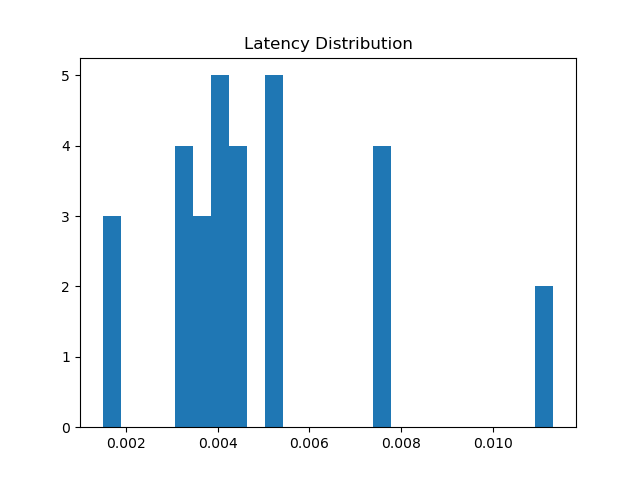
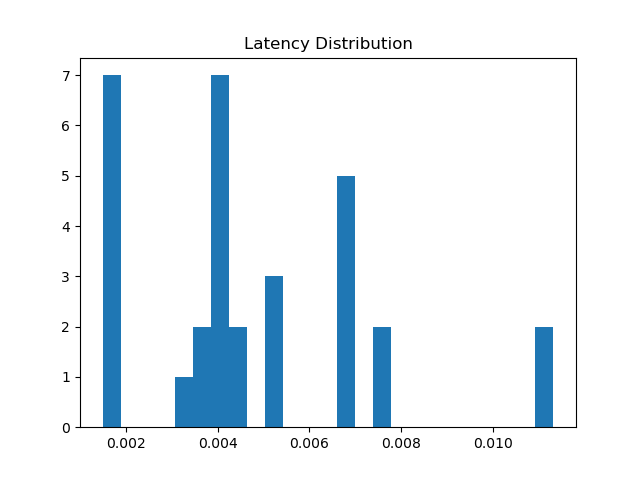
refactoring

diff --git a/project/main2.py b/project/main2.py
@@ -1,7 +1,8 @@
 import copy
-from network import Network, plt, np
 from random import shuffle
+
 from connection import Connection
+from network import Network, plt, np
 
 
 # used for the simulation of 100 connections with all the transceiver strategies
@@ -13,8 +14,7 @@ def main():
     connections = []
     for i in range(100):
         shuffle(node_labels)
-        connection = Connection(node_labels[0], node_labels[-1], 1e-3)
-        connections.append(connection)
+        connections.append(Connection(node_labels[0], node_labels[-1], 1e-3))
 
     connections1 = copy.deepcopy(connections)
     connections2 = copy.deepcopy(connections)
@@ -87,19 +87,12 @@ def main():
     plt.show()
 
     # _______________________________________________________________________________________
-    """""""""
-    plt.legend(loc='upper right')
-    plt.title('BitRate Distribution')
-    plt.xlabel('BitRate [Gbps]')
-    plt.show()
-    """""""""
-    streamed_connections = network.stream(connections)
     latencies = [connection.latency for connection in streamed_connections_shannon]
     plt.hist(np.ma.masked_equal(latencies, 0), bins=25)
     plt.title('Latency Distribution')
     plt.savefig('plots/LatencyDistribution.png')
     plt.show()
-    snrs=[connection.snr for connection in streamed_connections_shannon]
+    snrs = [connection.snr for connection in streamed_connections_shannon]
     plt.hist(np.ma.masked_equal(snrs, 0), bins=20)
     plt.title('SNR Dstribution')
     plt.savefig('plots/SNRDistribution.png')
@@ -107,14 +100,14 @@ def main():
 
     # total capacity _________________________________________________________________________
 
-    print("Average Latency: ", np.average(np.ma.masked_equal(latencies,0)))
-    print("Average SNR: ", np.average(np.ma.masked_equal(snrs,0)))
-    print("Total Capacity Fixed-Rate:", np.sum(bit_rate_fixed_rate))
-    print("Average Capacity Fixed-Rate:", np.mean(np.ma.masked_equal(bit_rate_fixed_rate,0)))
-    print("Total Capacity Flex-Rate:", np.sum(bit_rate_flex_rate))
-    print("Average Capacity Flex-Rate:", np.mean(np.ma.masked_equal(bit_rate_flex_rate,0)))
-    print("Total Capacity Shannon:", np.sum(bit_rate_shannon).round(2))
-    print("Average Capacity Shannon:", np.mean(np.ma.masked_equal(bit_rate_shannon,0).round(2)))
+    print("Average Latency: ", np.ma.mean(np.ma.masked_equal(latencies, 0)))
+    print("Average SNR: ", np.ma.mean(np.ma.masked_equal(snrs, 0)))
+    print("Total Capacity Fixed-Rate:", np.ma.sum(bit_rate_fixed_rate))
+    print("Average Capacity Fixed-Rate:", np.ma.mean(np.ma.masked_equal(bit_rate_fixed_rate, 0)))
+    print("Total Capacity Flex-Rate:", np.ma.sum(bit_rate_flex_rate))
+    print("Average Capacity Flex-Rate:", np.ma.mean(np.ma.masked_equal(bit_rate_flex_rate, 0)))
+    print("Total Capacity Shannon:", np.ma.sum(bit_rate_shannon).round(2))
+    print("Average Capacity Shannon:", np.ma.mean(np.ma.masked_equal(bit_rate_shannon, 0).round(2)))
 
 
 if __name__ == "__main__":

diff --git a/project/network.py b/project/network.py
@@ -71,6 +71,14 @@ class Network(object):
     def nodes(self):
         return self._nodes
 
+    @property
+    def weighted_paths(self):
+        return self._weighted_paths
+
+    @property
+    def route_space(self):
+        return self._route_space
+
     # connect the network --> dict
     def connect(self):
         nodes_dict = self._nodes
@@ -120,8 +128,8 @@ class Network(object):
         return prop_s_i
     
     def draw(self):
-        font = {'family': 'serif',
-                'color': 'blue',
+        font = {'family': 'sans',
+                'color': 'black',
                 'weight': 'normal',
                 'size': 15
                 }
@@ -129,13 +137,13 @@ class Network(object):
             n0 = self._nodes[node_label]
             x0 = n0.position[0] / 1e3
             y0 = n0.position[1] / 1e3
-            plt.plot(x0, y0)
+            plt.plot(x0, y0, 'bo', markersize=7)
             plt.text(x0, y0, node_label, fontdict=font)
             for connect_n_label in n0.connected_nodes:
                 n1 = self._nodes[connect_n_label]
                 x1 = n1.position[0] / 1e3
                 y1 = n1.position[1] / 1e3
-                plt.plot([x0, x1], [y0, y1])
+                plt.plot([x0, x1], [y0, y1], color='tab:orange')
         plt.xlabel('Km')
         plt.title('Network')
         plt.show()
@@ -159,15 +167,15 @@ class Network(object):
                 for node in path:
                     path_str += node + '-->'
                 paths.append(path_str[:-3])
-                s_i = SignalInformation(signal_power, path)
+                sigInf = SignalInformation(signal_power, path)
                 if couples in self._lines.keys():
                     line = self._lines[couples]
                     signal_power = line.optimized_launch_power()
-                s_i.signal_power = signal_power
-                s_i = self.propagate(s_i, occupation=False)
-                latencies.append(s_i.latency)
-                noises.append(s_i.noise_power)
-                snrs.append(10 * np.log10(s_i.latency / s_i.noise_power))
+                sigInf.signal_power = signal_power
+                sigInf = self.propagate(sigInf, occupation=False)
+                latencies.append(sigInf.latency)
+                noises.append(sigInf.noise_power)
+                snrs.append(10 * np.log10(sigInf.signal_power / sigInf.noise_power))
         df['path'] = paths
         df['latency'] = latencies
         df['noise'] = noises

diff --git a/project/main3.py b/project/main3.py
@@ -1,7 +1,8 @@
-from network import Network, plt, np
-from random import shuffle
 import copy
+from random import shuffle
+
 from connection import Connection
+from network import Network, plt, np
 
 
 # used for the different values of beta2 and NF
@@ -60,12 +61,6 @@ def main():
     plt.show()
 
     # _______________________________________________________________________________________
-    """""""""
-    plt.legend(loc='upper right')
-    plt.title('BitRate Distribution')
-    plt.xlabel('BitRate [Gbps]')
-    plt.show()
-    """""""""
     latencies = [connection.latency for connection in streamed_connections_fixed_rate]
     plt.hist(np.ma.masked_equal(latencies, 0), bins=25)
     plt.title('Latency Distribution')
@@ -79,14 +74,14 @@ def main():
 
     # total capacity _________________________________________________________________________
 
-    print("Average Latency: ", np.average(np.ma.masked_equal(latencies, 0)))
-    print("Average SNR: ", np.average(np.ma.masked_equal(snrs, 0)))
+    print("Average Latency: ", np.ma.mean(np.ma.masked_equal(latencies, 0)))
+    print("Average SNR: ", np.ma.mean(np.ma.masked_equal(snrs, 0)))
     print("Total Capacity Fixed-Rate:", np.sum(bit_rate_fixed_rate))
-    print("Average Capacity Fixed-Rate:", np.mean(np.ma.masked_equal(bit_rate_fixed_rate, 0)))
+    print("Average Capacity Fixed-Rate:", np.ma.mean(np.ma.masked_equal(bit_rate_fixed_rate, 0)))
     print("Total Capacity Flex-Rate:", np.sum(bit_rate_flex_rate))
-    print("Average Capacity Flex-Rate:", np.mean(np.ma.masked_equal(bit_rate_flex_rate, 0)))
+    print("Average Capacity Flex-Rate:", np.ma.mean(np.ma.masked_equal(bit_rate_flex_rate, 0)))
     print("Total Capacity Shannon:", np.sum(bit_rate_shannon).round(2))
-    print("Average Capacity Shannon:", np.mean(np.ma.masked_equal(bit_rate_shannon, 0).round(2)))
+    print("Average Capacity Shannon:", np.ma.mean(np.ma.masked_equal(bit_rate_shannon, 0).round(2)))
 
 
 if __name__ == "__main__":

diff --git a/project/test.py b/project/test.py
@@ -1,0 +1,33 @@
+from random import shuffle
+
+import matplotlib.pyplot as plt
+
+from connection import Connection
+from network import Network
+
+
+def main():
+    net = Network("exam_net.json")
+    nodes = list(net.nodes.keys())
+    connections = list()
+
+    net.connect()
+    for i in range(100):
+        shuffle(nodes)
+        connections.append(Connection(nodes[0], nodes[-1], 1e-3))
+    streamed_connections = net.stream(connections)
+    latencies = [connection.latency for connection in streamed_connections]
+    plt.hist(latencies, bins=10)
+    plt.title("Latencies")
+    plt.show()
+    streamed_connections = net.stream(connections)
+    snrs = [connection.snr for connection in streamed_connections]
+    plt.hist(snrs, bins=10)
+    plt.title("SNRs")
+    plt.show()
+    print(net.weighted_paths)
+    print(net.route_space)
+
+
+if __name__ == "__main__":
+    main()

diff --git a/project/line.py b/project/line.py
@@ -11,10 +11,10 @@ class Line:
         self._state = ['free' for _ in range(10)]
         self._n_amplifiers = int(self._length / 80e3)  # one amp every 80km
         self._gain = 16
-        self._noise_figure = 3  # 5#
+        self._noise_figure = 3  # 5
         self._fiber = {
             "alpha": 0.2e-3 / (20 * math.log10(math.e)),
-            "beta": 2.13e-26,
+            "beta": 2.3e-26,
             "gamma": 1.27e-3,
             "Rs": 32e9,
             "df": 50e9
